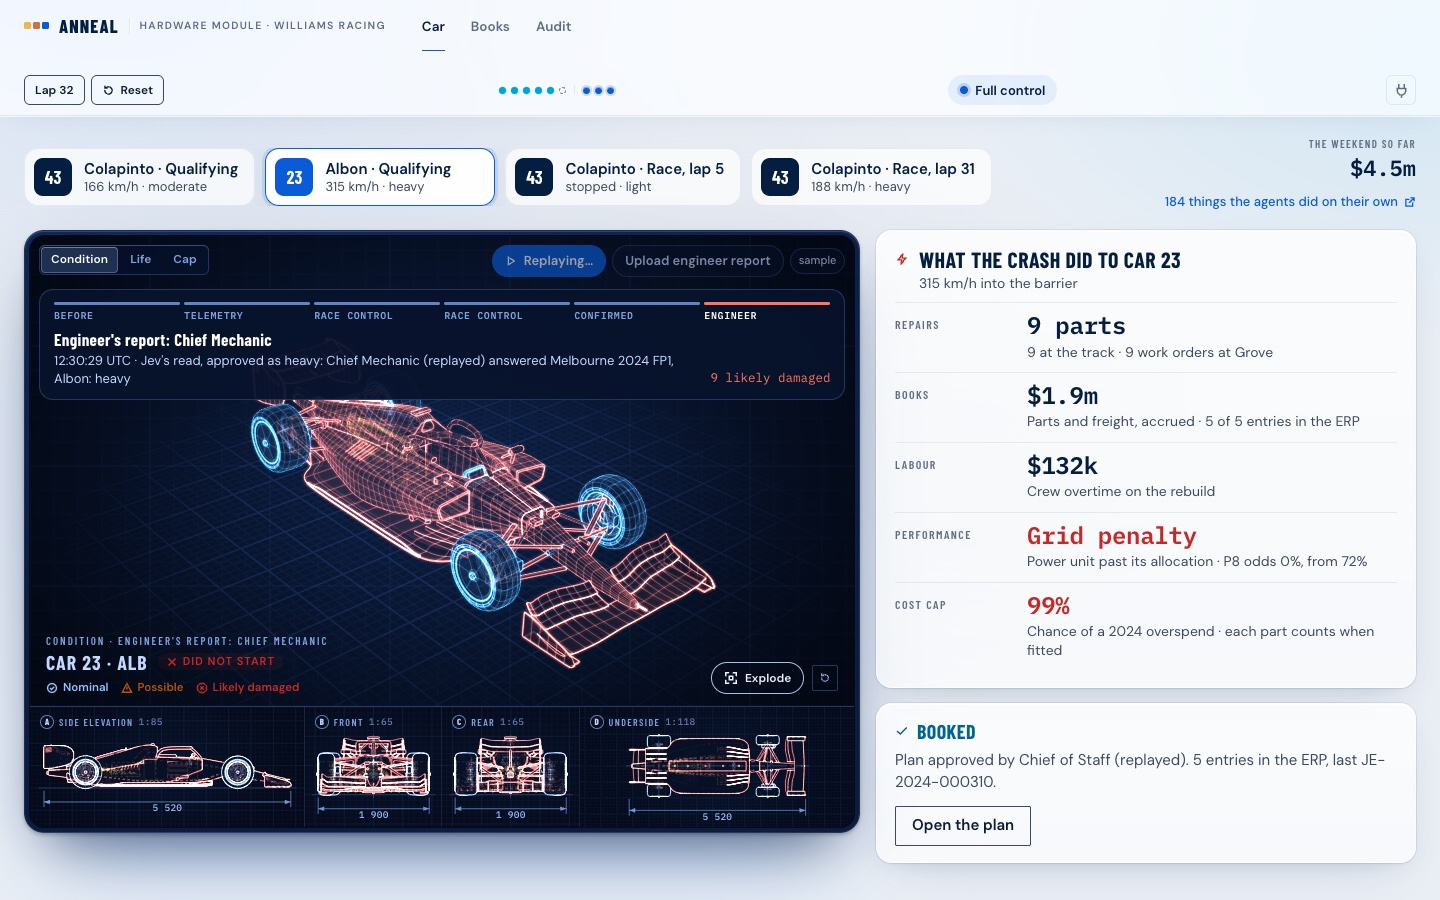
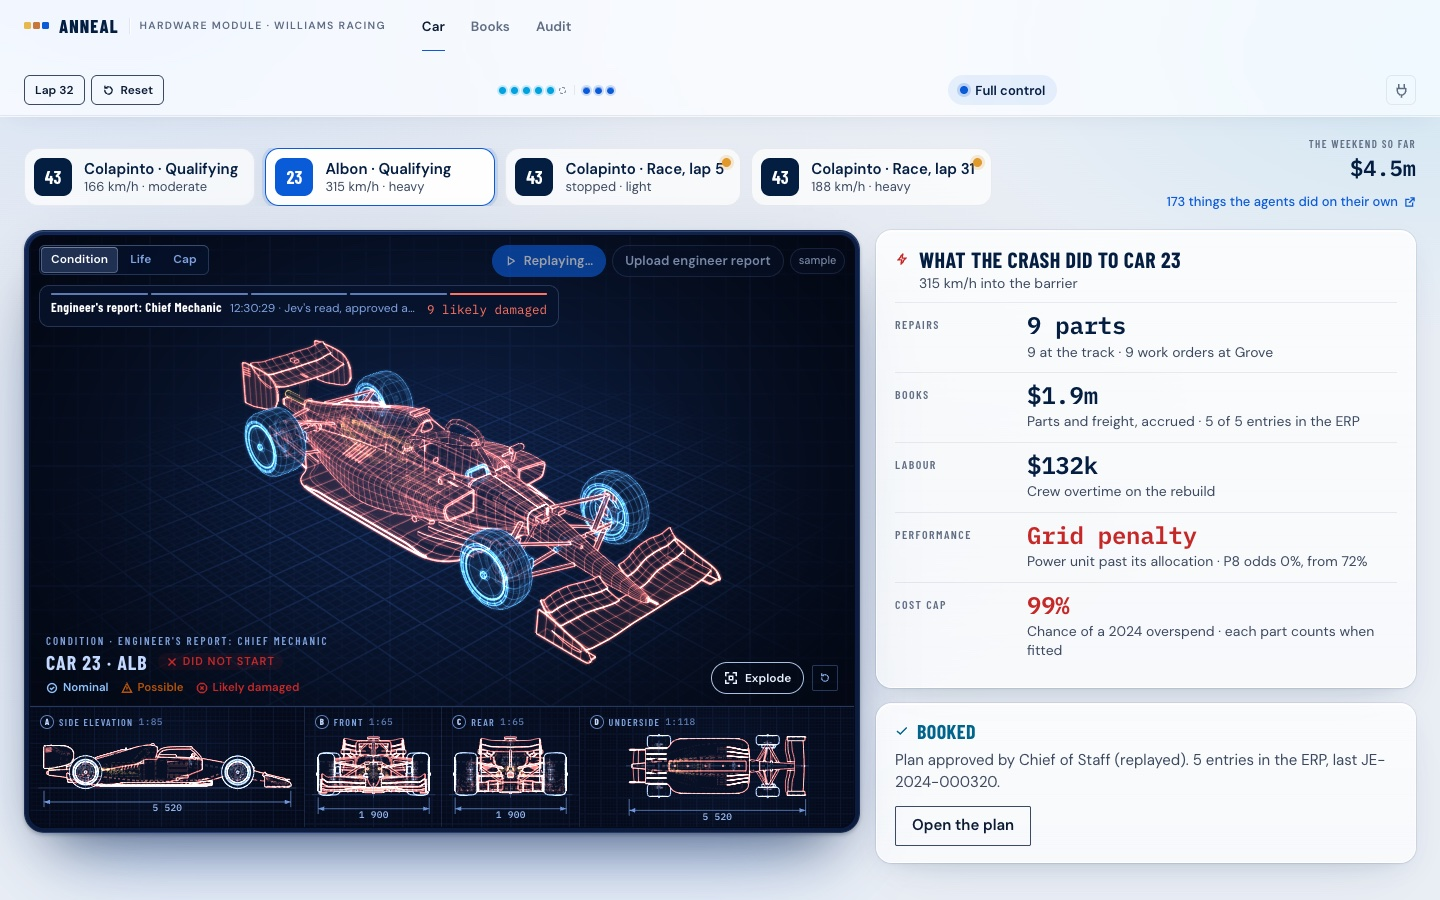
The crash replay's caption is one thin line in the corner, so the car stays in view

diff --git a/frontend/src/views/desk/present.css b/frontend/src/views/desk/present.css
@@ -488,23 +488,26 @@
 .rp-caption {
   position: absolute;
   left: 14px;
-  right: 14px;
-  top: 58px;
+  top: 54px;
   z-index: 4;
   display: grid;
-  grid-template-columns: 1fr auto;
-  gap: 8px 14px;
-  padding: 12px 14px;
+  grid-template-columns: minmax(0, 1fr) auto;
+  gap: 5px 12px;
+  width: min(520px, calc(100% - 28px));
+  padding: 7px 11px 8px;
   border: 1px solid var(--g-dark-edge);
-  border-radius: 14px;
-  background: var(--g-dark-chip-solid);
+  border-radius: 10px;
+  background: rgba(7, 18, 44, 0.72);
   color: var(--g-dark-ink);
+  backdrop-filter: blur(8px);
+  -webkit-backdrop-filter: blur(8px);
 }
 
+/* the steps: one thin segmented line, the step's name on hover */
 .rp-steps {
   grid-column: 1 / -1;
   display: flex;
-  gap: 4px;
+  gap: 3px;
   margin: 0;
   padding: 0;
   list-style: none;
@@ -512,71 +515,64 @@
 
 .rp-steps li {
   flex: 1;
-  min-width: 0;
-  font: 600 10px/1 var(--mono);
-  letter-spacing: 0.06em;
-  text-transform: uppercase;
-  color: var(--g-dark-ink-dim);
-}
-
-.rp-steps li::before {
-  content: '';
-  display: block;
-  height: 3px;
-  margin-bottom: 6px;
-  border-radius: 2px;
+  height: 2px;
+  border-radius: 1px;
   background: rgba(140, 180, 255, 0.2);
 }
 
-.rp-steps li.is-done::before {
-  background: rgba(140, 180, 255, 0.7);
+.rp-steps li.is-done {
+  background: rgba(140, 180, 255, 0.65);
 }
 
 .rp-steps li.is-on {
-  color: #fff;
-}
-
-.rp-steps li.is-on::before {
   background: #fff;
 }
 
-.rp-steps li.rp-step--report.is-on::before,
-.rp-steps li.rp-step--upload.is-on::before {
+.rp-steps li.rp-step--report.is-on,
+.rp-steps li.rp-step--upload.is-on {
   background: var(--g-d-alert, #ff7360);
 }
 
 .rp-steps li span {
-  display: block;
+  position: absolute;
+  width: 1px;
+  height: 1px;
   overflow: hidden;
-  text-overflow: ellipsis;
-  white-space: nowrap;
+  clip: rect(0 0 0 0);
 }
 
+/* the step itself: one line, the detail cut short rather than wrapped */
 .rp-now {
-  display: grid;
-  gap: 3px;
+  display: flex;
+  gap: 8px;
+  align-items: baseline;
   min-width: 0;
 }
 
 .rp-now b {
-  font: 700 17px/1.2 var(--display);
-  letter-spacing: 0.02em;
+  flex: none;
+  font: 700 13px/1.2 var(--display);
+  letter-spacing: 0.03em;
   color: #fff;
 }
 
 .rp-now span {
-  font: 400 13px/1.35 var(--body);
-  color: var(--g-dark-ink);
+  min-width: 0;
+  overflow: hidden;
+  text-overflow: ellipsis;
+  white-space: nowrap;
+  font: 400 12px/1.2 var(--body);
+  color: var(--g-dark-ink-dim);
 }
 
 .rp-count {
-  align-self: end;
-  font-size: 12px;
+  align-self: baseline;
+  font-size: 11px;
   color: var(--g-d-alert, #ff7360);
   white-space: nowrap;
 }
 
 .rp-caption--rest {
-  grid-template-columns: 1fr;
-  background: var(--g-dark-chip);
+  grid-template-columns: minmax(0, 1fr);
+  background: rgba(7, 18, 44, 0.55);
 }

diff --git a/frontend/src/views/desk/CrashReplay.tsx b/frontend/src/views/desk/CrashReplay.tsx
@@ -220,15 +220,15 @@ export function ReplayStage({ race, inc, car }: { race: RaceData; inc: Inc | nul
         <div className="rp-caption" role="status" aria-live="polite">
           <ol className="rp-steps">
             {play.steps.map((s, i) => (
-              <li key={i} className={`${i < frame.i ? 'is-done' : i === frame.i ? 'is-on' : ''} rp-step--${s.kind}`}>
+              <li key={i} className={`${i < frame.i ? 'is-done' : i === frame.i ? 'is-on' : ''} rp-step--${s.kind}`} title={s.title}>
                 <span>{s.kind === 'before' ? 'Before' : s.kind === 'telemetry' ? 'Telemetry' : s.kind === 'race' ? 'Race control' : s.kind === 'confirmed' ? 'Confirmed' : s.kind === 'upload' ? 'Uploaded' : 'Engineer'}</span>
               </li>
             ))}
           </ol>
           <div className="rp-now">
             <b>{frame.cur.title}</b>
-            <span>
-              {frame.cur.kind !== 'before' && frame.cur.kind !== 'upload' ? `${clock(frame.cur.at)} UTC · ` : ''}
+            <span title={frame.cur.detail}>
+              {frame.cur.kind !== 'before' && frame.cur.kind !== 'upload' ? `${clock(frame.cur.at).slice(0, 8)} · ` : ''}
               {frame.cur.detail}
             </span>
           </div>
